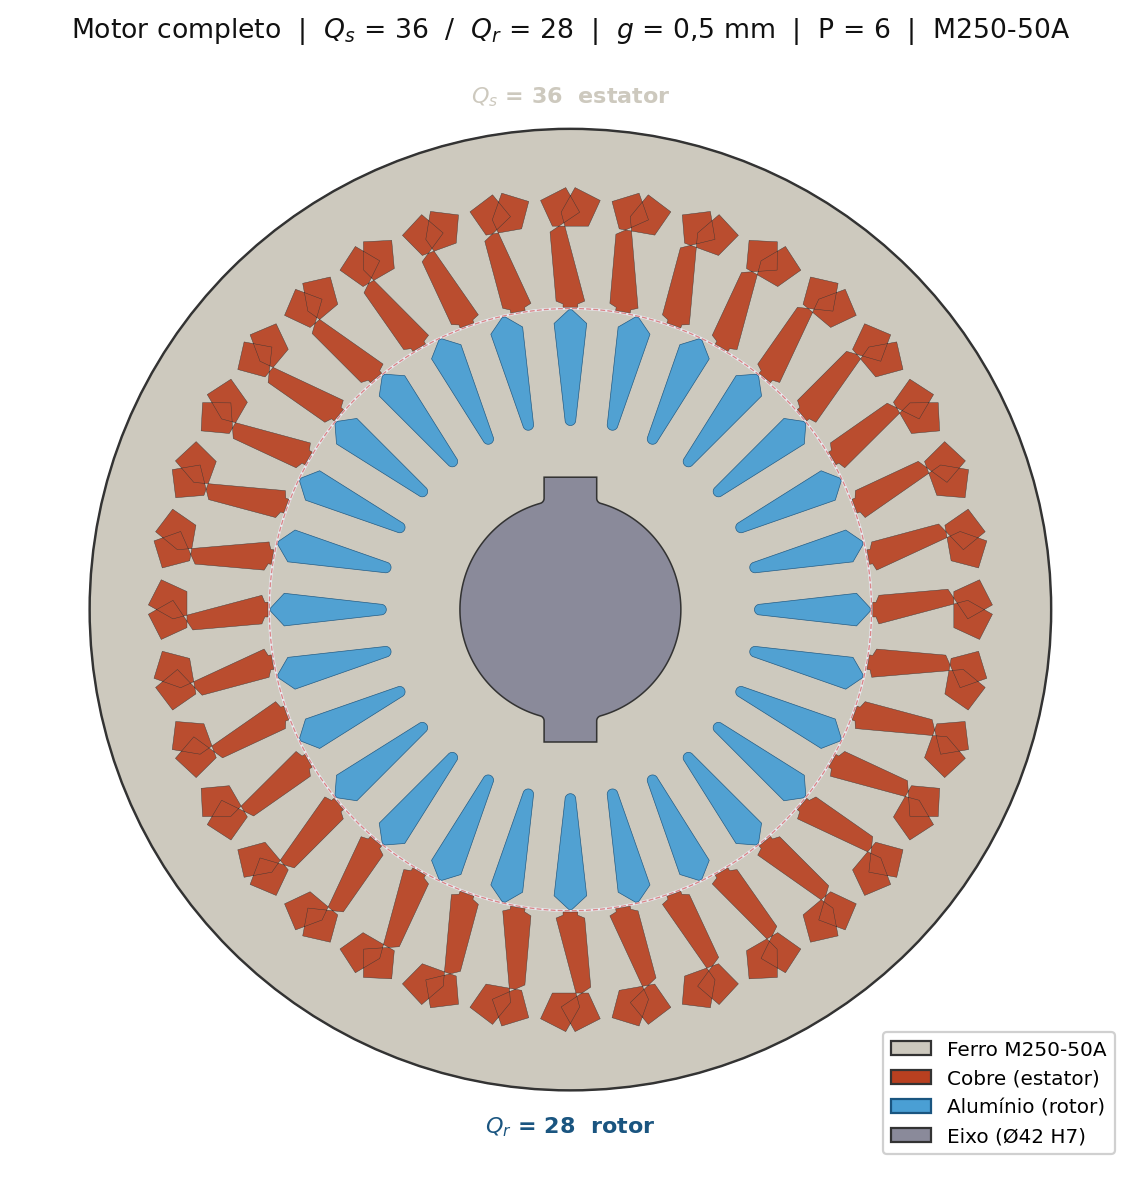
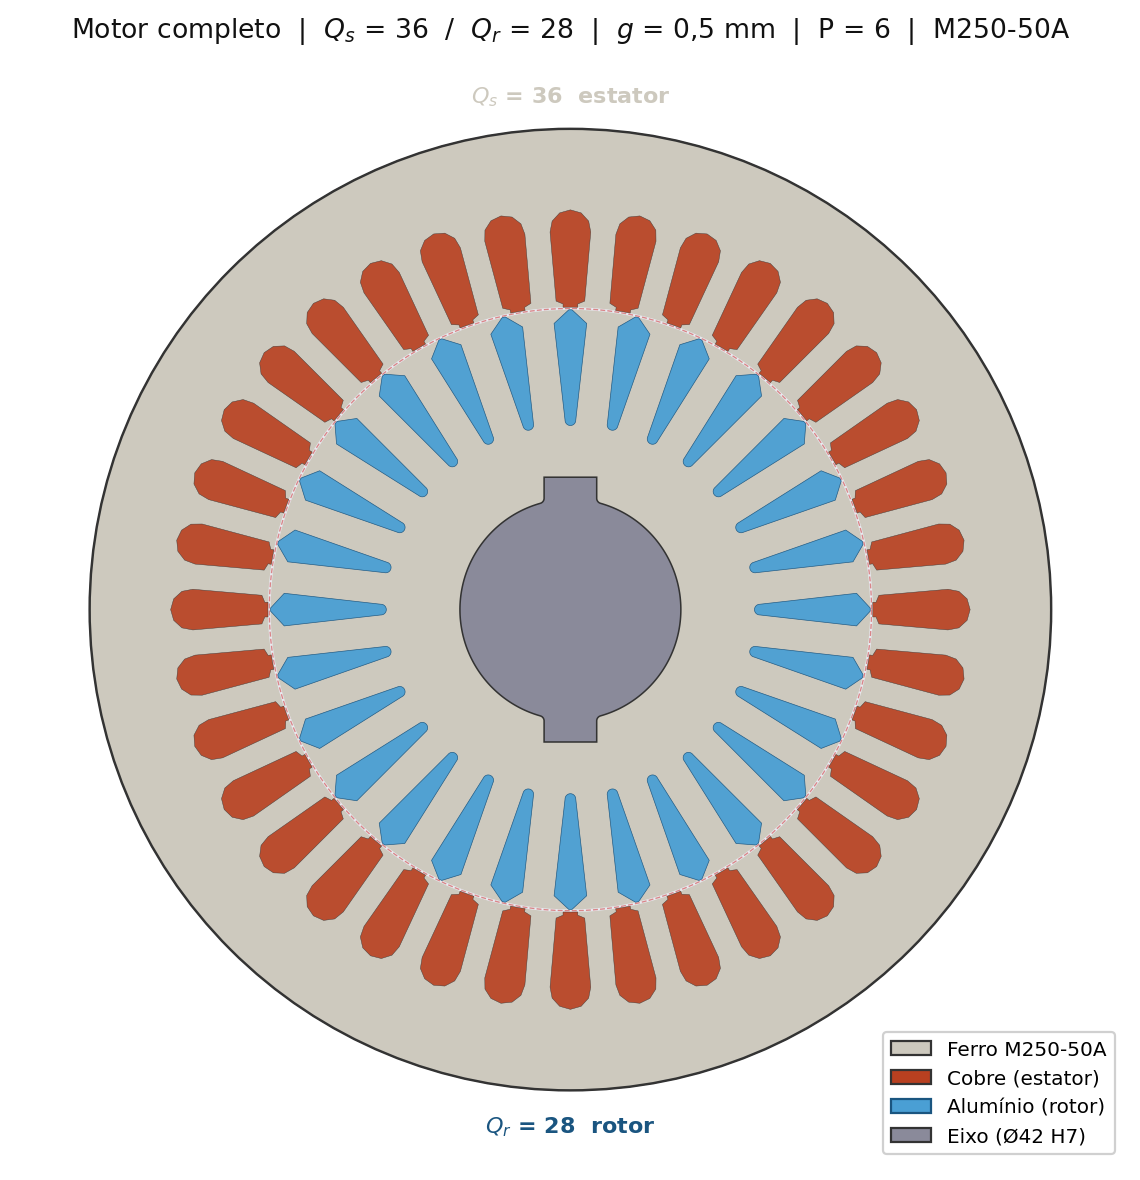
Fix stator slot polygon in plot_geometry.py — use known arc center
Arc calculation now uses the rotated _ARC_CX directly instead of
inferring center from midpoint of two points (which broke for P5).

Changed region(s): [[0.1228, 0.1525, 0.8904, 0.8847], [0.7061, 0.3356, 0.7368, 0.3661], [0.2456, 0.3661, 0.2763, 0.3966]]

diff --git a/tools/plot_geometry.py b/tools/plot_geometry.py
@@ -122,38 +122,26 @@ def arc_pts(R, a1, a2, n=80):
     return R * np.cos(t), R * np.sin(t)
 
 
-def slot_bottom_arc_s(P4, P5, n=60):
-    """Stator slot bottom arc from P5 to P4 (CCW, ~190°).
-    
-    P4 = tangent point (CCW side), P5 = tangent point (CW side).
-    Arc centre is at radial distance ARC_CX from motor centre, on slot centreline.
-    """
-    # Arc centre for the rotated slot
-    cx = (P4[0] + P5[0]) / 2
-    cy = (P4[1] + P5[1]) / 2
-    # The arc centre is further out radially from midpoint of tangent pts
-    # by sqrt(R_bot^2 - half_chord^2)
-    half_chord = np.hypot(P4[0] - cx, P4[1] - cy)
-    d = np.sqrt(max(R_bot_arc**2 - half_chord**2, 0.0))
-    rm = np.hypot(cx, cy)
-    # Centre is radially outward from midpoint
-    cx_arc = cx + d * cx / rm
-    cy_arc = cy + d * cy / rm
-    
-    # Angle from centre to P5 (start) and P4 (end), CCW
-    a5 = np.arctan2(P5[1] - cy_arc, P5[0] - cx_arc)
-    a4 = np.arctan2(P4[1] - cy_arc, P4[0] - cx_arc)
-    # Go CCW from P5 to P4 (through deepest point, which is radially outward)
-    if a4 <= a5:
-        a4 += 2 * np.pi
-    t = np.linspace(a5, a4, n)
+def slot_bottom_arc_s(Pstart, Pend, cx_arc, cy_arc, n=60):
+    """Stator slot bottom arc from Pstart to Pend (CCW) around given centre."""
+    a_start = np.arctan2(Pstart[1] - cy_arc, Pstart[0] - cx_arc)
+    a_end = np.arctan2(Pend[1] - cy_arc, Pend[0] - cx_arc)
+    if a_end <= a_start:
+        a_end += 2 * np.pi
+    t = np.linspace(a_start, a_end, n)
     return cx_arc + R_bot_arc * np.cos(t), cy_arc + R_bot_arc * np.sin(t)
 
 
 def stator_slot_poly(i, n_arc=30):
     """Polygon for stator slot i (9-point profile with wedge + split arc)."""
-    pts = rot_pts(BASE_S, i * 2 * np.pi / Q_s)
+    theta = i * 2 * np.pi / Q_s
+    pts = rot_pts(BASE_S, theta)
     P1, P2, P3, P4, P5, P6, P7, P8, P9 = pts
+    
+    # Rotated arc centre
+    c, s = np.cos(theta), np.sin(theta)
+    cx_arc = c * _ARC_CX
+    cy_arc = s * _ARC_CX
     
     # Opening arc P9 → P1 (CCW at bore radius)
     a9 = np.arctan2(P9[1], P9[0])
@@ -164,13 +152,25 @@ def stator_slot_poly(i, n_arc=30):
     ox = R_si * np.cos(t_op)
     oy = R_si * np.sin(t_op)
     
-    # Slot bottom arc: P6→P5 (95° CCW) then P5→P4 (95° CCW)
-    bx1, by1 = slot_bottom_arc_s(P5, P6, n_arc // 2)
-    bx2, by2 = slot_bottom_arc_s(P4, P5, n_arc // 2)
+    # Slot bottom arc: two halves P4→P5 then P5→P6 (CCW going CW side→deep→CCW side)
+    # Note: in the base profile, P4 is CCW tangent (+y), P6 is CW tangent (-y)
+    # Arc goes from P6 (CW) → P5 (deep) → P4 (CCW) i.e. CCW direction
+    bx1, by1 = slot_bottom_arc_s(P6, P5, cx_arc, cy_arc, n_arc // 2)
+    bx2, by2 = slot_bottom_arc_s(P5, P4, cx_arc, cy_arc, n_arc // 2)
     
-    # Full polygon: opening → right side → arc (two halves) → left side
-    px = np.concatenate([ox, [P2[0], P3[0], P4[0]], bx2, bx1, [P7[0], P8[0]]])
-    py = np.concatenate([oy, [P2[1], P3[1], P4[1]], by2, by1, [P7[1], P8[1]]])
+    # Full polygon: opening(P9→P1) → P2 → P3 → P4 → arc(P4→P5→P6) reversed → P7 → P8
+    # Actually: path goes P1→P2→P3→P4, then arc from P4→P5→P6 (CW = inward),
+    # but we need to think in terms of a closed polygon outline.
+    # Outline: bore_opening(P9→P1), right_wall(P1→P2→P3→P4), 
+    #          bottom_arc(P4 going CCW to P6 via P5 reversed = going CW from P4 to P6),
+    #          left_wall(P6→P7→P8→P9)
+    # The arc from P6→P5→P4 (CCW) gives us the points in the wrong order for our path.
+    # We want P4→P5→P6 which is CW = reverse of CCW.
+    arc_x = np.concatenate([bx2[::-1], bx1[::-1]])
+    arc_y = np.concatenate([by2[::-1], by1[::-1]])
+    
+    px = np.concatenate([ox, [P2[0], P3[0]], arc_x, [P7[0], P8[0]]])
+    py = np.concatenate([oy, [P2[1], P3[1]], arc_y, [P7[1], P8[1]]])
     return px, py
 
 